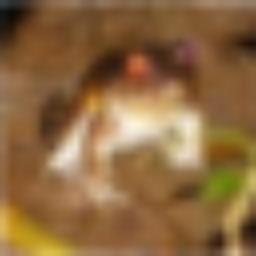
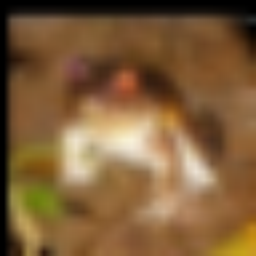
update

diff --git a/augment_dataset.py b/augment_dataset.py
@@ -130,8 +130,8 @@ def create_transforms(
     """
     t = [transforms.ToTensor()]
     augmentations = [
-        # transforms.RandomHorizontalFlip(),
-        # transforms.RandomCrop(32, padding=4),       # For Tiny-ImageNet: 64 x 64; For CIFAR: 32 x 32
+        transforms.RandomHorizontalFlip(),
+        transforms.RandomCrop(32, padding=4),       # For Tiny-ImageNet: 64 x 64; For CIFAR: 32 x 32
         # transforms.TrivialAugmentWide(),
         # transforms.Resize(256),
     ]
